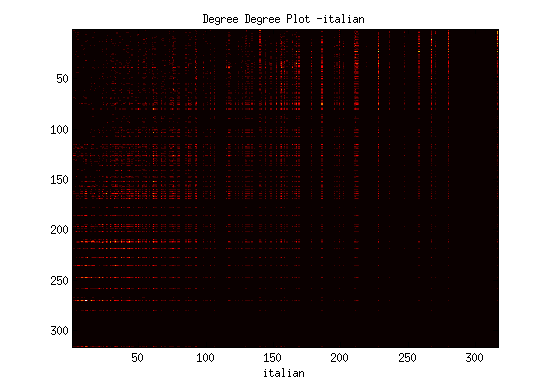
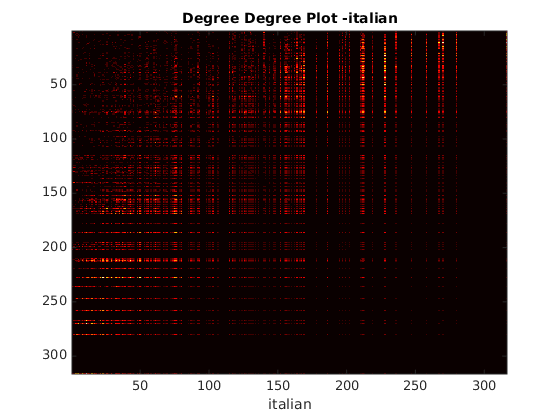
Adding results for degreedegree plots

diff --git a/matlab/plotDegreeDegree.m b/matlab/plotDegreeDegree.m
@@ -1,16 +1,39 @@
 function plotDegreeDegree(netType, edgeThreshold )
     cuisines = {'indian', 'chinese', 'mexican', 'spanish',  'italian', 'french'};
-    
+    cuisineText = {'Indian', 'Chinese', 'Mexican', 'Spanish', 'Italian', 'French'};
+    origDegreeDegreeAllCuisines = cell(6,1);
+    prunedDegreeDegreeAllCuisines = cell(6,1);
+    ingredCountInCore = zeros(6,1);
+    maxDegree = zeros(6,1);
     for i=1:6
-        figure;
-        colormap(hot);
-        data = getCuisineData(cuisines{i}, netType, edgeThreshold);
-        imagesc(data);
-        xlabel(cuisines{i});
-        title(strcat('Degree Degree Plot - ', cuisines{i}));
+        [origDegreeDegreeAllCuisines{i}, prunedDegreeDegreeAllCuisines{i}, maxDegree(i), ingredCountInCore(i)] = getCuisineData(cuisines{i}, netType, edgeThreshold);
+    end
+    maxOfAllDegrees = max(maxDegree);
+    for i=1:6
+         prunedData = prunedDegreeDegreeAllCuisines{i}; 
+         olddim = size(prunedData, 1);
+         prunedData = appendExtraColumnsIfRequired(maxOfAllDegrees, prunedData);
+         h = figure;
+         colormap(hot);
+         imagesc(prunedData);
+         title(strcat('Degree Degree Plot - ', cuisines{i}, '-', num2str(edgeThreshold), 'links'));
+         xlabel(strcat('Nodes:', num2str(ingredCountInCore(i)), '; MaxDegree:', num2str(maxDegree(i))));
+         fileName = strcat('DegreeDegree', cuisineText{i}, num2str(edgeThreshold));
+         saveas(h, fileName, 'png');
+   end
+        
+end
+function newData = appendExtraColumnsIfRequired(maxDegree, data)
+    olddim =size(data, 1);
+    if maxDegree > olddim
+        newData = zeros(maxDegree, maxDegree);
+        newData(1:olddim, 1:olddim) = data(1:olddim, 1:olddim);
+    else
+        newData = data;
     end
 end
-function degreeDegreeMat = getCuisineData(cuisine, netType, edgeThreshold)
+
+function [degreeDegreeMat, degreeDegreePrunedMat, maxDegree, nodeCount] = getCuisineData(cuisine, netType, edgeThreshold)
     edgWtFile = strcat(cuisine , '_' , netType , '_wtDist.csv');
     nodeMetricsFile = strcat(cuisine, '_', netType, '_nodeMetrics.csv');
     [src, dest, wt] =  loadFile(edgWtFile);
@@ -25,16 +48,40 @@ function degreeDegreeMat = getCuisineData(cuisine, netType, edgeThreshold)
     
     maxDeg = max(oldDeg);
     degreeDegreeMat = zeros(maxDeg, maxDeg);
-    
+    nodeDegreeContainer = containers.Map(char('a'), int32(0));
+    edgeContainer = containers.Map(char('a'), ?handle);
 %    data = [];
     [wt, orderedIndices] = sort(wt, 'descend');
     for i=1:edgeThreshold
         eWt = wt(i); %percent of all recipes in which this edge occurs
         s = src(orderedIndices(i));
-        sind = find(ismember(node, s) ==1);     
+        if nodeDegreeContainer.isKey(s{1})
+            nodeDegreeContainer(s{1}) = nodeDegreeContainer(s{1}) + 1;
+        else
+            nodeDegreeContainer(s{1}) = 1;
+        end
+        sind = find(ismember(node, s{1}) ==1);     
         
         d = dest(orderedIndices(i));
-        dind = find(ismember(node, d)==1);
+        if nodeDegreeContainer.isKey(d{1})
+            nodeDegreeContainer(d{1}) = nodeDegreeContainer(d{1}) + 1;
+        else
+            nodeDegreeContainer(d{1}) = 1;
+        end
+        dind = find(ismember(node, d{1})==1);
+        
+        if edgeContainer.isKey(s{1})
+            destEdges = edgeContainer(s{1});
+            if ~isempty(destEdges)
+                destEdges{numel(destEdges) + 1} = d{1};
+            else
+                destEdges{1} = d{1};
+            end
+            edgeContainer(s{1}) = destEdges;
+        else
+            destEdges{1} = d{1};
+            edgeContainer(s{1}) = destEdges;
+        end
         
         if sind ~= dind
 %             newDeg(sind) = newDeg(sind) + 1;
@@ -42,8 +89,28 @@ function degreeDegreeMat = getCuisineData(cuisine, netType, edgeThreshold)
 %             k = [sind, dind, eWt];
 %             data = [data; k];
             degreeDegreeMat(oldDeg(sind), oldDeg(dind)) = degreeDegreeMat(oldDeg(sind), oldDeg(dind)) + 1;
+            degreeDegreeMat(oldDeg(dind), oldDeg(sind)) = degreeDegreeMat(oldDeg(dind), oldDeg(sind)) + 1;
         end
     end
+    nodeDegreeContainer.remove('a');
+    edgeContainer.remove('a');
+    degrees = nodeDegreeContainer.values;
+    degrees = cell2mat(degrees);
+    maxDegree = max(degrees);
+    degreeDegreePrunedMat = zeros(maxDegree, maxDegree);
+    keys = edgeContainer.keys;
+    for i=1:length(keys)
+        s = keys{i};
+        sdeg = nodeDegreeContainer(s);
+        dest = edgeContainer(s);
+        for j=1:length(dest)
+            d = dest{j};
+            ddeg = nodeDegreeContainer(d);
+            degreeDegreePrunedMat(sdeg, ddeg) = degreeDegreePrunedMat(sdeg, ddeg) + 1;
+            degreeDegreePrunedMat(ddeg, sdeg) = degreeDegreePrunedMat(ddeg, sdeg) + 1;
+        end
+    end
+    nodeCount = int32(nodeDegreeContainer.Count);
     
 %     diff = oldDeg-newDeg;
 %     ind = find(diff > 0);
